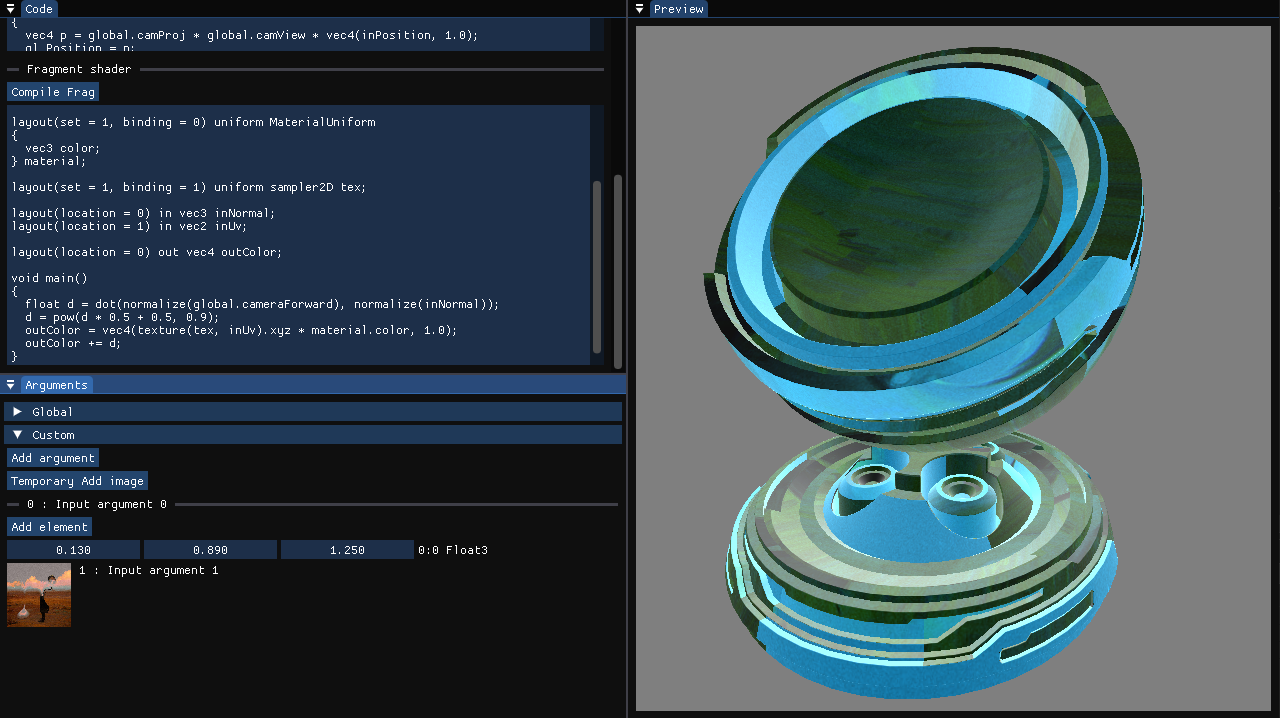
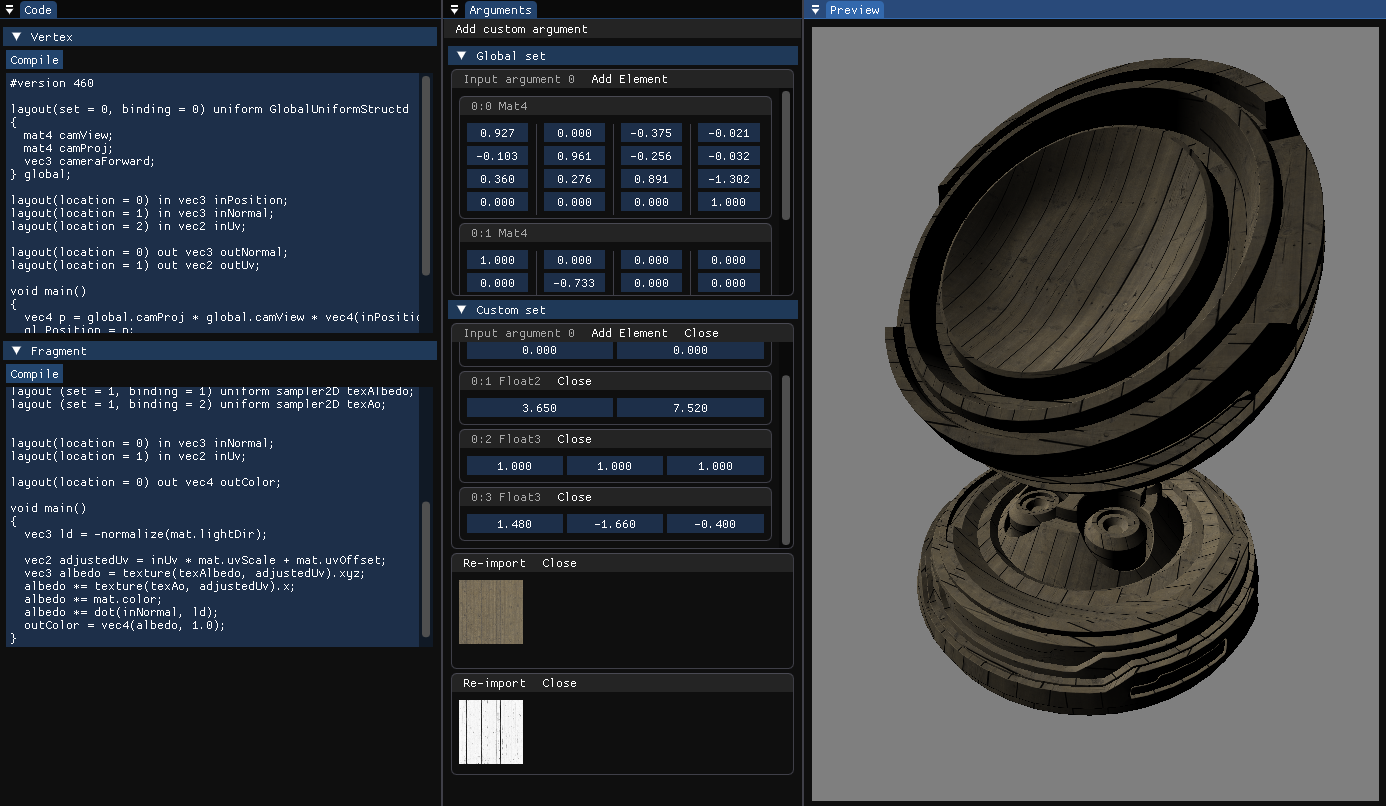
Input argument, buffer element removal

diff --git a/src/ui_arguments.cpp b/src/ui_arguments.cpp
@@ -2,7 +2,7 @@
 #include "src/common.h"
 
 void ShowInputSetArguments(MsInputSet* set, const char* title);
-void ShowArgumentBuffer(MsInputArgumentBuffer* buffer);
+void ShowArgumentBuffer(MsInputArgumentBuffer* buffer, bool canEditElementOrder);
 void ShowBufferElement(MsBufferElement* element);
 MsBufferElementType ShowBufferAddElementMenu();
 void ShowArgumentImage(MsInputArgumentImage* image);
@@ -112,7 +112,7 @@ void ShowInputSetArguments(MsInputSet* set, const char* title)
       {
         ImGui::MenuItem(argument->name, NULL, false, false);
 
-        if (ImGui::BeginMenu("Add Element"))
+        if (set != &state.globalInputSet && ImGui::BeginMenu("Add Element"))
         {
           MsBufferElementType newType = ShowBufferAddElementMenu();
           if (newType != Ms_Buffer_COUNT)
@@ -123,7 +123,7 @@ void ShowInputSetArguments(MsInputSet* set, const char* title)
           ImGui::EndMenu();
         }
       }
-      else // if (argument->type == Ms_Input_Image)
+      else if (argument->type == Ms_Input_Image)
       {
         if (ImGui::MenuItem("Re-import"))
         {
@@ -131,9 +131,16 @@ void ShowInputSetArguments(MsInputSet* set, const char* title)
         }
       }
 
-      if (ImGui::MenuItem("Close"))
+      if (set != &state.globalInputSet && ImGui::MenuItem("Close"))
       {
-        printf ("Remove argument %d", i);
+        MsInputSetRemoveArgument(set, i);
+
+        ImGui::EndMenuBar();
+        ImGui::EndChild();
+        ImGui::PopStyleVar();
+        ImGui::PopID();
+        ImGui::PopID();
+        continue;
       }
       ImGui::EndMenuBar();
     }
@@ -141,7 +148,7 @@ void ShowInputSetArguments(MsInputSet* set, const char* title)
     // TODO Show some drag&drop element and handle that
 
     if (argument->type == Ms_Input_Buffer)
-      ShowArgumentBuffer(&argument->data.buffer);
+      ShowArgumentBuffer(&argument->data.buffer, set != &state.globalInputSet);
     else if (argument->type == Ms_Input_Image)
       ShowArgumentImage(&argument->data.image);
 
@@ -155,7 +162,7 @@ void ShowInputSetArguments(MsInputSet* set, const char* title)
   ImGui::PopID();
 }
 
-void ShowArgumentBuffer(MsInputArgumentBuffer* buffer)
+void ShowArgumentBuffer(MsInputArgumentBuffer* buffer, bool canEditElementOrder)
 {
   MsBufferElement* element;
   for (uint32_t i = 0; i < buffer->elementCount; i++)
@@ -168,9 +175,16 @@ void ShowArgumentBuffer(MsInputArgumentBuffer* buffer)
     {
       ImGui::MenuItem(buffer->pElements[i].name, NULL, false, false);
 
-      if (ImGui::MenuItem("Close"))
+      if (canEditElementOrder && ImGui::MenuItem("Close"))
       {
-        printf("Remove element %d", i);
+        MsBufferRemoveElement(buffer, i);
+        i--;
+
+        ImGui::EndMenuBar();
+        ImGui::EndChild();
+        ImGui::PopStyleVar();
+        ImGui::PopID();
+        continue;
       }
       ImGui::EndMenuBar();
     }

diff --git a/src/material.cpp b/src/material.cpp
@@ -279,6 +279,18 @@ MsResult MsBufferAddElement(MsInputArgument* argument, MsBufferElementType type)
   return Ms_Success;
 }
 
+void MsBufferRemoveElement(MsInputArgumentBuffer* buffer, uint32_t index)
+{
+  LapisMemFree(buffer->pElements[index].name);
+  LapisMemFree(buffer->pElements[index].data);
+
+  for (uint32_t i = index; i < buffer->elementCount - 1; i ++)
+  {
+    buffer->pElements[i] = buffer->pElements[i + 1];
+  }
+  buffer->elementCount--;
+}
+
 MsResult InitBufferArgument(MsInputArgument* argument, MsInputArgumentInitInfo info)
 {
   MsBufferElement* pElements = LapisMemAllocZeroArray(MsBufferElement, info.bufferInfo.elementCount);
@@ -380,6 +392,36 @@ MsResult MsInputSetAddArgument(MsInputSet* set, MsInputArgumentInitInfo info)
   MS_ATTEMPT(MsInputSetUpdateLayoutAndSet(set));
 
   return Ms_Success;
+}
+
+void MsInputSetRemoveArgument(MsInputSet* set, uint32_t index)
+{
+  MsInputArgument* argument = &set->pArguments[index];
+  LapisMemFree(argument->name);
+  if (argument->type == Ms_Input_Buffer)
+  {
+    OpalBufferShutdown(&argument->data.buffer.buffer);
+    for (uint32_t i = 0; i < argument->data.buffer.elementCount; i++)
+    {
+      LapisMemFree(argument->data.buffer.pElements[i].name);
+      LapisMemFree(argument->data.buffer.pElements[i].data);
+    }
+    LapisMemFree(argument->data.buffer.pElements);
+    argument->data.buffer.elementCount = 0;
+    argument->data.buffer.size = 0;
+  }
+  else
+  {
+    OpalImageShutdown(&argument->data.image.image);
+    OpalInputSetShutdown(&argument->data.image.set);
+  }
+
+  for (uint32_t i = index; i < set->count - 1; i++)
+  {
+    set->pArguments[i] = set->pArguments[i + 1];
+  }
+
+  set->count--;
 }
 
 MsResult MsInputSetReloadImage(MsInputSet* set, uint32_t imageIndex, char* path)

diff --git a/src/common.h b/src/common.h
@@ -28,12 +28,14 @@ MsResult UpdateCamera();
 MsResult RenderUi();
 
 MsResult MsInputSetAddArgument(MsInputSet* set, MsInputArgumentInitInfo info);
+void MsInputSetRemoveArgument(MsInputSet* set, uint32_t);
 MsResult MsInputSetUpdateLayoutAndSet(MsInputSet* set);
 MsResult MsInputSetPushBuffers(MsInputSet* set);
 MsResult MsUpdateInputArgument(MsInputArgument* argument);
 MsResult MsInputSetReloadImage(MsInputSet* set, uint32_t imageIndex, char* path);
 
 MsResult MsBufferAddElement(MsInputArgument* argument, MsBufferElementType type);
+void MsBufferRemoveElement(MsInputArgumentBuffer* buffer, uint32_t index);
 
 const char* MsGetShaderTypeExtension(OpalShaderType type);
 MsResult MsCompileShader(OpalShaderType type, const char* source);
